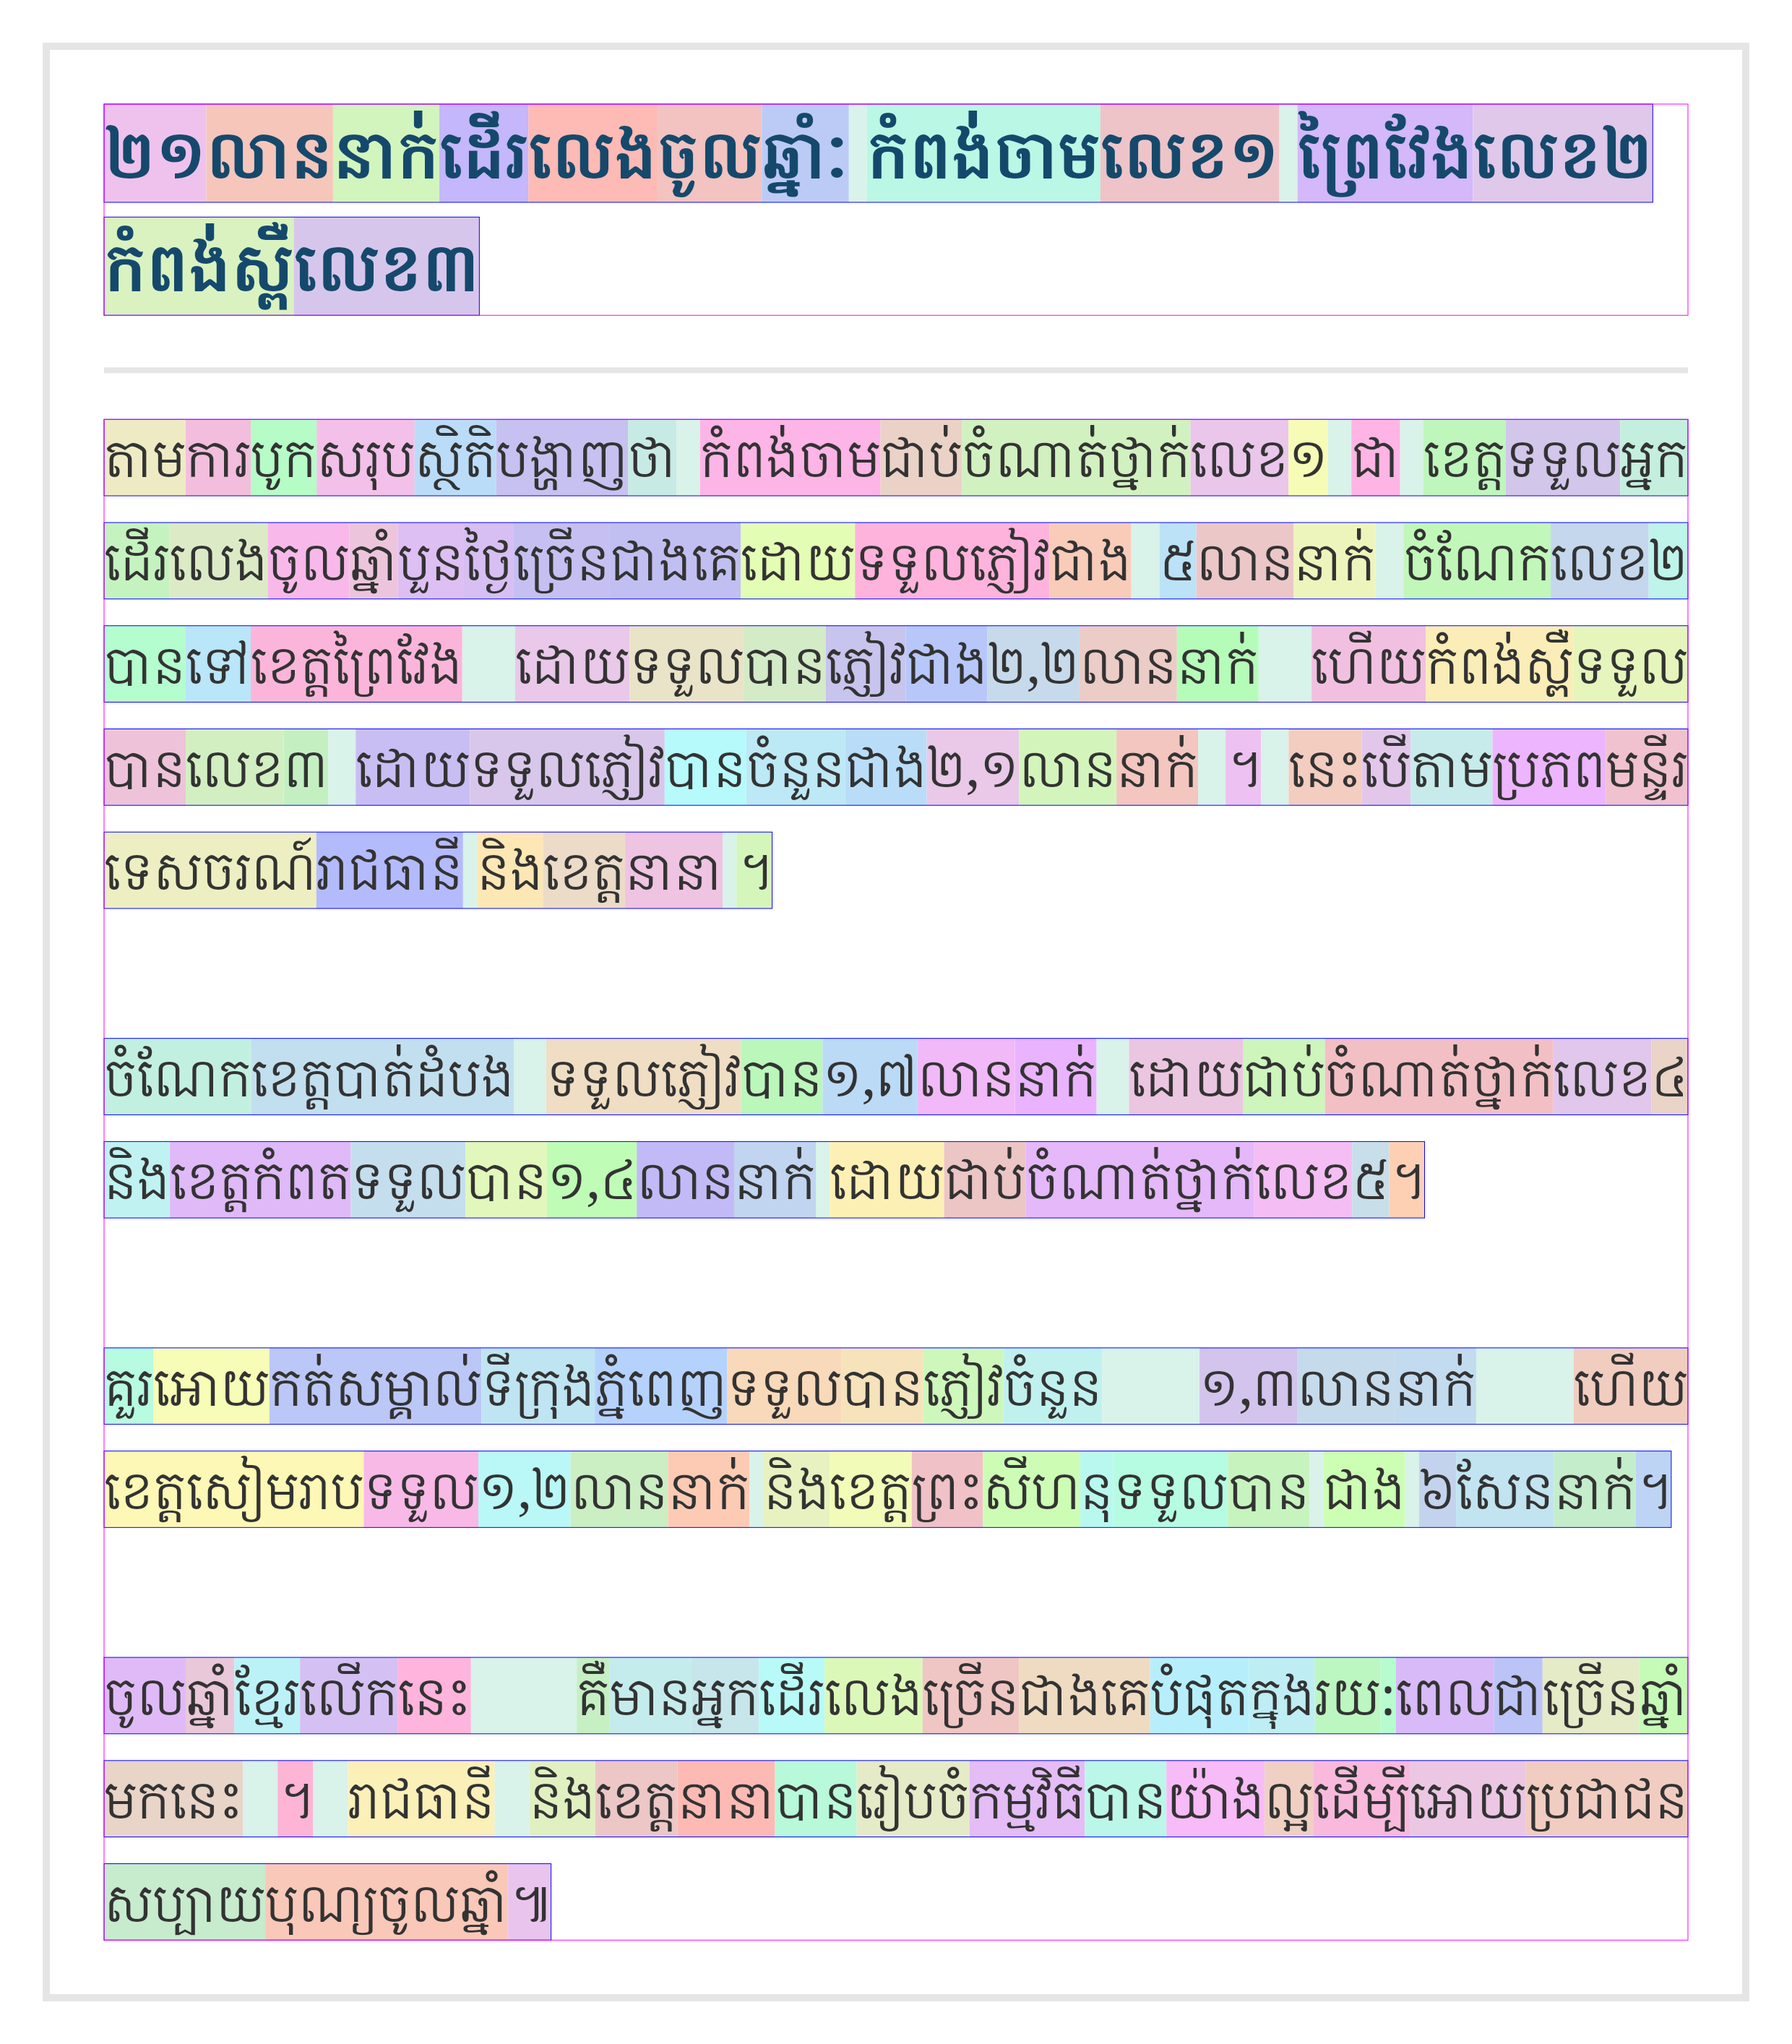
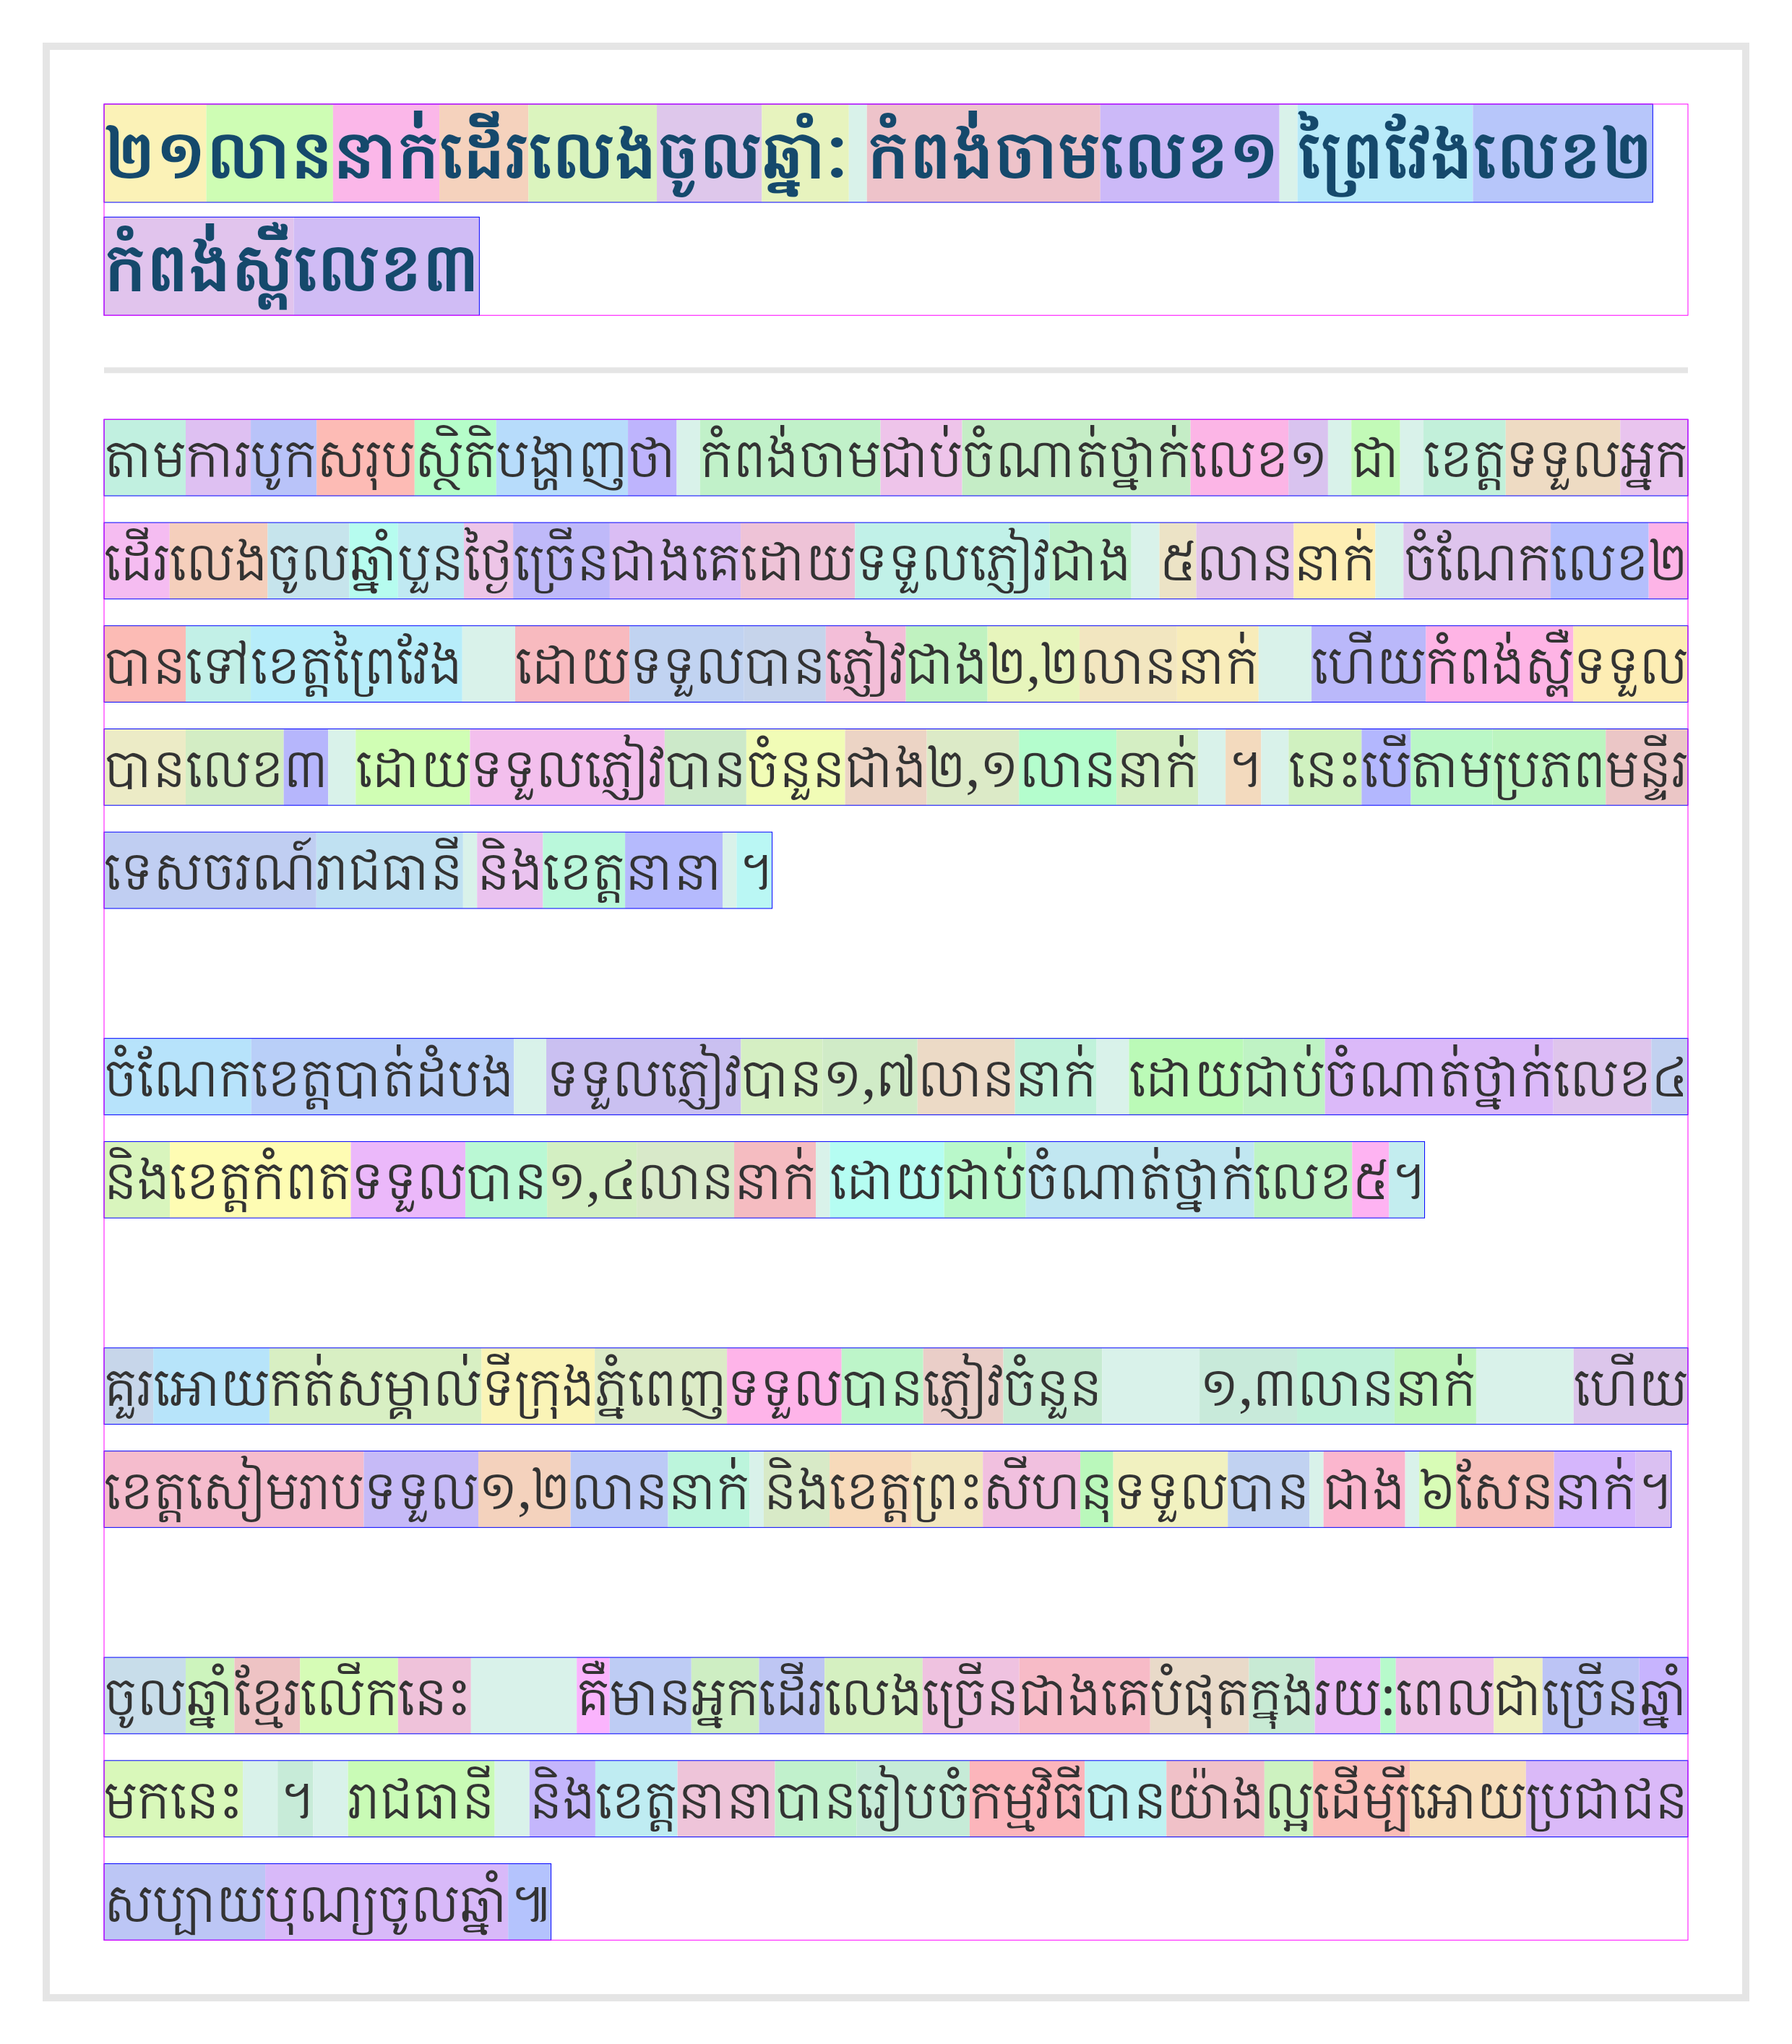
add props

diff --git a/khmer-justify.js b/khmer-justify.js
@@ -199,6 +199,7 @@ export class TextLayer {
     return {
       ...bbox,
       groups,
+      props,
       fill() {
 
         if (props.fillStyle) {
